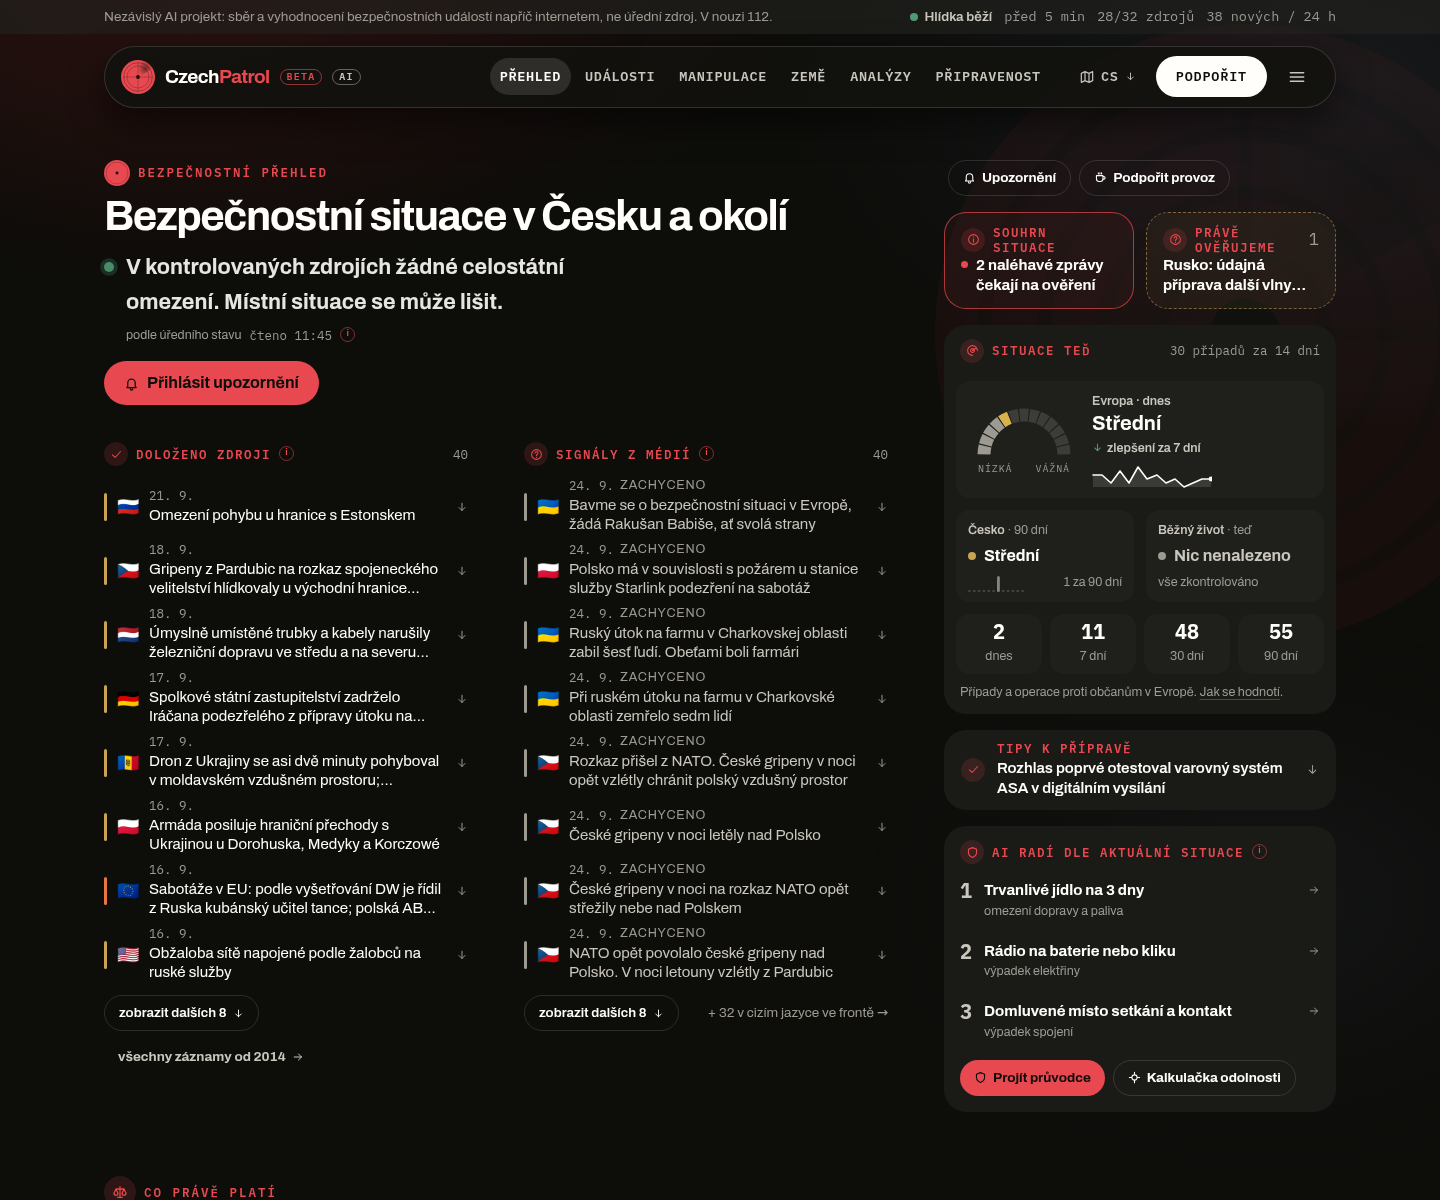
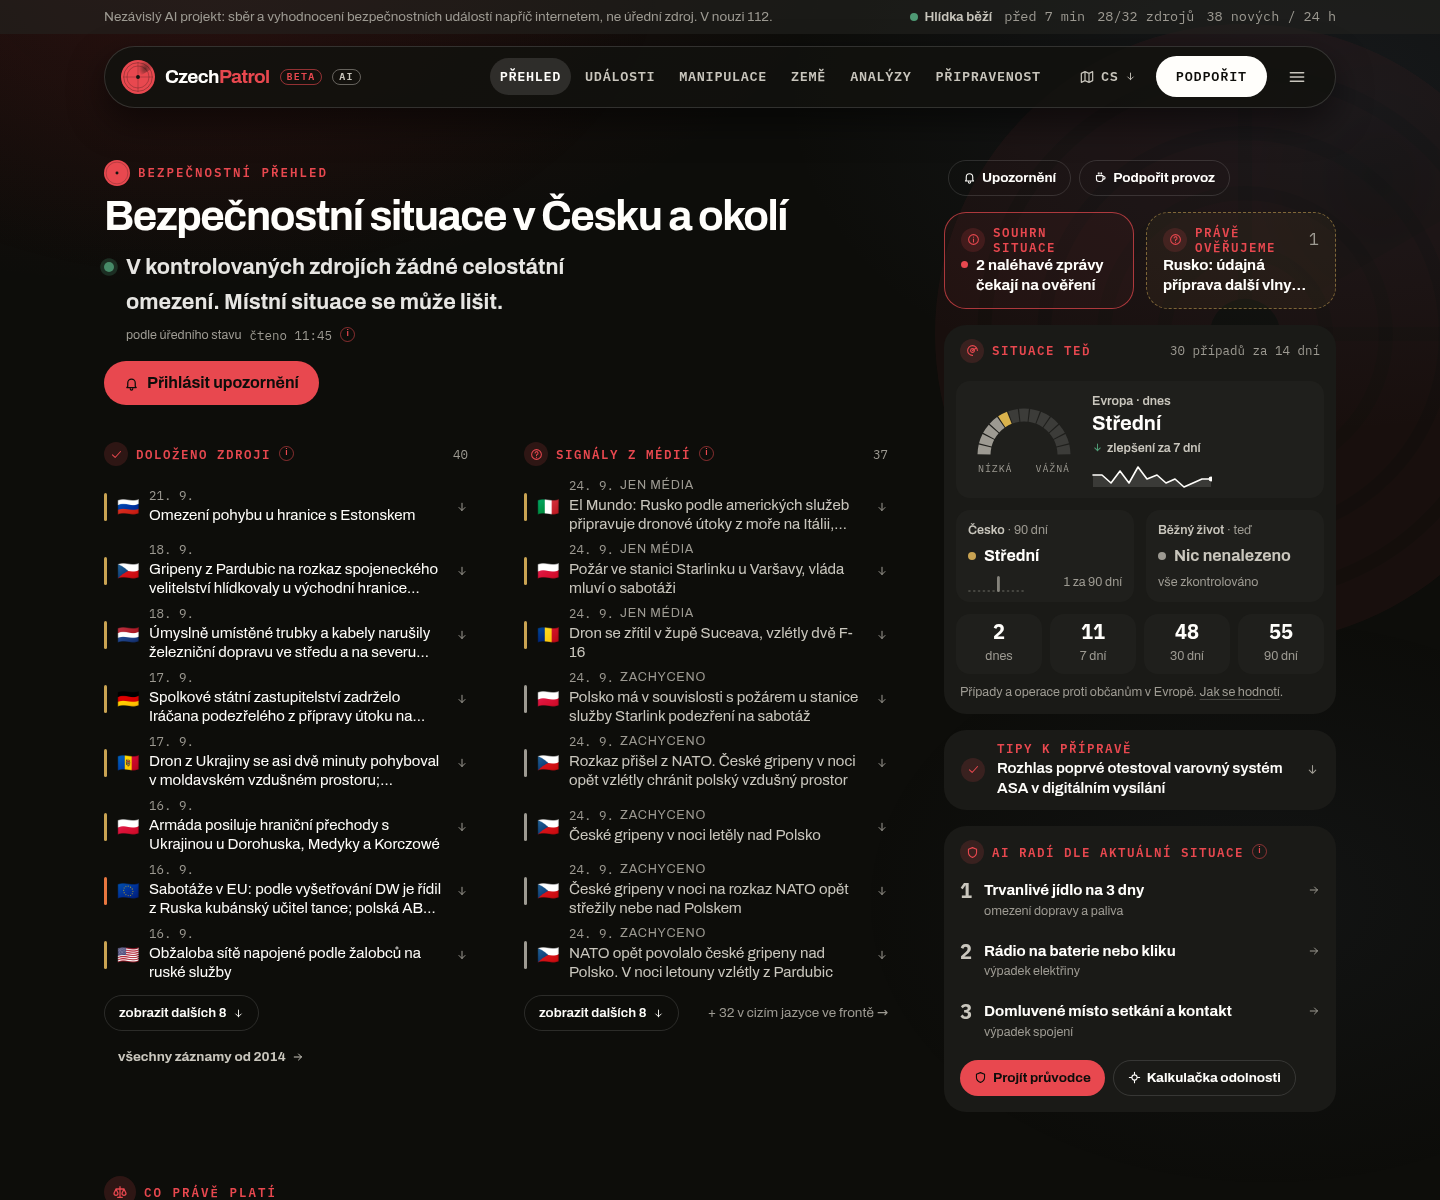
Úvod: údery uvnitř Ukrajiny a Ruska nejsou signál; výzvy politiků jsou řeč; nové záznamy s časem zjištění
- Signály z médií na úvodu nepouštějí zachycené zprávy s místem UA nebo RU
  bez naléhavosti (rozsah války podle CLAUDE.md); ověřovatel je dál vidí
  ve frontě.
- Filtr řečí zná i „žádá“, „vyzývá“, „navrhuje“, „calls for“, „demands“;
  test na výzvu Rakušana Babišovi.
- Tři záznamy z 24. 9. mají čas zjištění 09:45, ať stojí v seznamu nahoře.

Claude-Session: https://claude.ai/code/session_01EaFEHmtj9AidFQygqHnrQV

Changed region(s): [[0.375, 0.4008, 0.5938, 0.6167]]

diff --git a/src/components/aktuality-sloupce.tsx b/src/components/aktuality-sloupce.tsx
@@ -163,7 +163,12 @@ export function AktualitySloupce({ zaznamy, nepotvrzene = [], kandidati = [], te
   const neoverene: Radek[] = [
     ...zaznamy.filter((z) => z.overeni === "neovereno").map((z) => zZaznamu(z, `u-${z.slug}`, `/incident/${z.slug}/`, "jen média", "bg-jantar")),
     ...nepotvrzene.map((z) => zZaznamu(z, `n-${z.id}`, `/nepotvrzeno/${z.id}/`, "nepotvrzeno", "bg-jantar")),
-    ...kandidati.filter((k) => jeCesky(k.titulek) && !jeJenProjev(k.titulek)).map((k): Radek => ({
+    /*
+      Údery uvnitř Ukrajiny a Ruska bez doloženého následku pro sledované
+      země jsou mimo rozsah (CLAUDE.md, rozsah války); na úvod jdou jen
+      naléhavé. Zbytek posoudí ověřovatel ve frontě.
+    */
+    ...kandidati.filter((k) => jeCesky(k.titulek) && !jeJenProjev(k.titulek) && (k.naliehave || (k.kodZeme !== "UA" && k.kodZeme !== "RU"))).map((k): Radek => ({
       klic: `k-${k.id}`, kam: k.zdroj.url, ven: true, kodZeme: k.kodZeme, zeme: k.zeme, kdy: k.publikovano, titulek: k.titulek, stitek: "zachyceno", pruh: "bg-tlum2",
       zavaznost: null, jistota: null, kategorie: k.kategorie.map((c) => KATEGORIE[c as Kategorie]?.nazev ?? c), text: k.shrnuti || null, textPopis: "Zachyceno", zdroj: { nazev: k.zdroj.nazev, url: k.zdroj.url },
     })),

diff --git a/testy/zasady-textu.test.ts b/testy/zasady-textu.test.ts
@@ -26,6 +26,7 @@ describe("zásady textu", () => {
     expect(jeJenProjev("Prezident vyhlásil nouzový stav, uvedl úřad vlády")).toBe(false);
     expect(jeJenProjev("Litva uzavřela hranici s Běloruskem")).toBe(false);
     expect(jeJenProjev("Polish PM said the government banned drone flights near the border")).toBe(false);
+    expect(jeJenProjev("Bavme se o bezpečnostní situaci v Evropě, žádá Rakušan Babiše, ať svolá strany")).toBe(true);
     expect(jeJenProjev("")).toBe(false);
   });
 });
